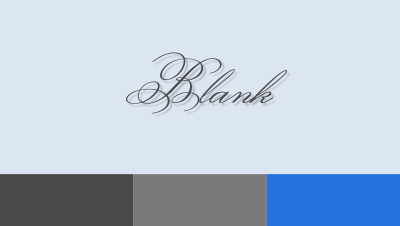
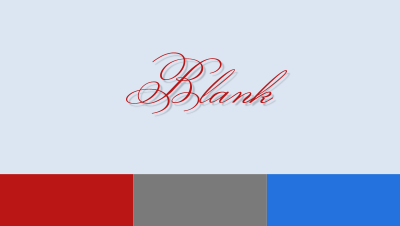
Insert zip content

Changed region(s): [[0.0, 0.7434, 0.33, 1.0], [0.3, 0.2168, 0.72, 0.4956]]

diff --git a/.contentfusion/templates/Blank/styles.css b/.contentfusion/templates/Blank/styles.css
@@ -1,8 +1,8 @@
 /*#
-@colors&{"titlesAccentColor":"#494949","labelsAccentColor":"#7b7a7a","linksAccentColor":"#2372de","backgroundAccentColor":"#dce5f2","isDefault":true}&colors@
+@colors&{"titlesAccentColor":"#bb1616","labelsAccentColor":"#7b7a7a","linksAccentColor":"#2372de","backgroundAccentColor":"#dce5f2","isDefault":false}&colors@
 @info@STYLES BASKET SELECTIONS METADATA@info@
 @name&styles_basket&name@
-@aspects&wh-tiles,fonts-selector&aspects@
+@aspects&wh-tiles,fonts-selector,accent-colors-selector&aspects@
 @info@WARNING: PLEASE DON'T MODIFY THIS FILE. MODIFICATION CAN CAUSE UPLOADING ERRORS@info@
 @info@TIP: YOU CAN USE custom.css TO ADD CUSTOM SELECTORS.@info@
 #*/
@@ -15,6 +15,39 @@
   .wh_publication_toc .active > .topicref a {
     font-weight: bold;
   }
+}
+/*accent-colors-selector*/
+.topictitle1,
+.topictitle2,
+.topictitle3,
+.topictitle4,
+.topictitle5,
+.topictitle6,
+*[class~='front-page/front-page-title'],
+*[class~="toc/title"],
+*[class~="placeholder/figurelist"] > *[class~="topic/title"],
+*[class~="placeholder/tablelist"] > *[class~="topic/title"],
+*[class~="index/groups"]::before {
+  color: #bb1616;
+}
+*[class~='topic/shortdesc']:before {
+  color: #7b7a7a;
+}
+*[class~='topic/xref'],
+*[class~='topic/link'] {
+  color: #2372de;
+}
+.related-links a,
+.related-links a:visited {
+  color: #2372de;
+}
+a,
+a:hover,
+a:visited {
+  color: #2372de;
+}
+*[class~='topic/table'] th {
+  background-color: #dce5f2;
 }
 /*fonts-selector*/
 @page {
